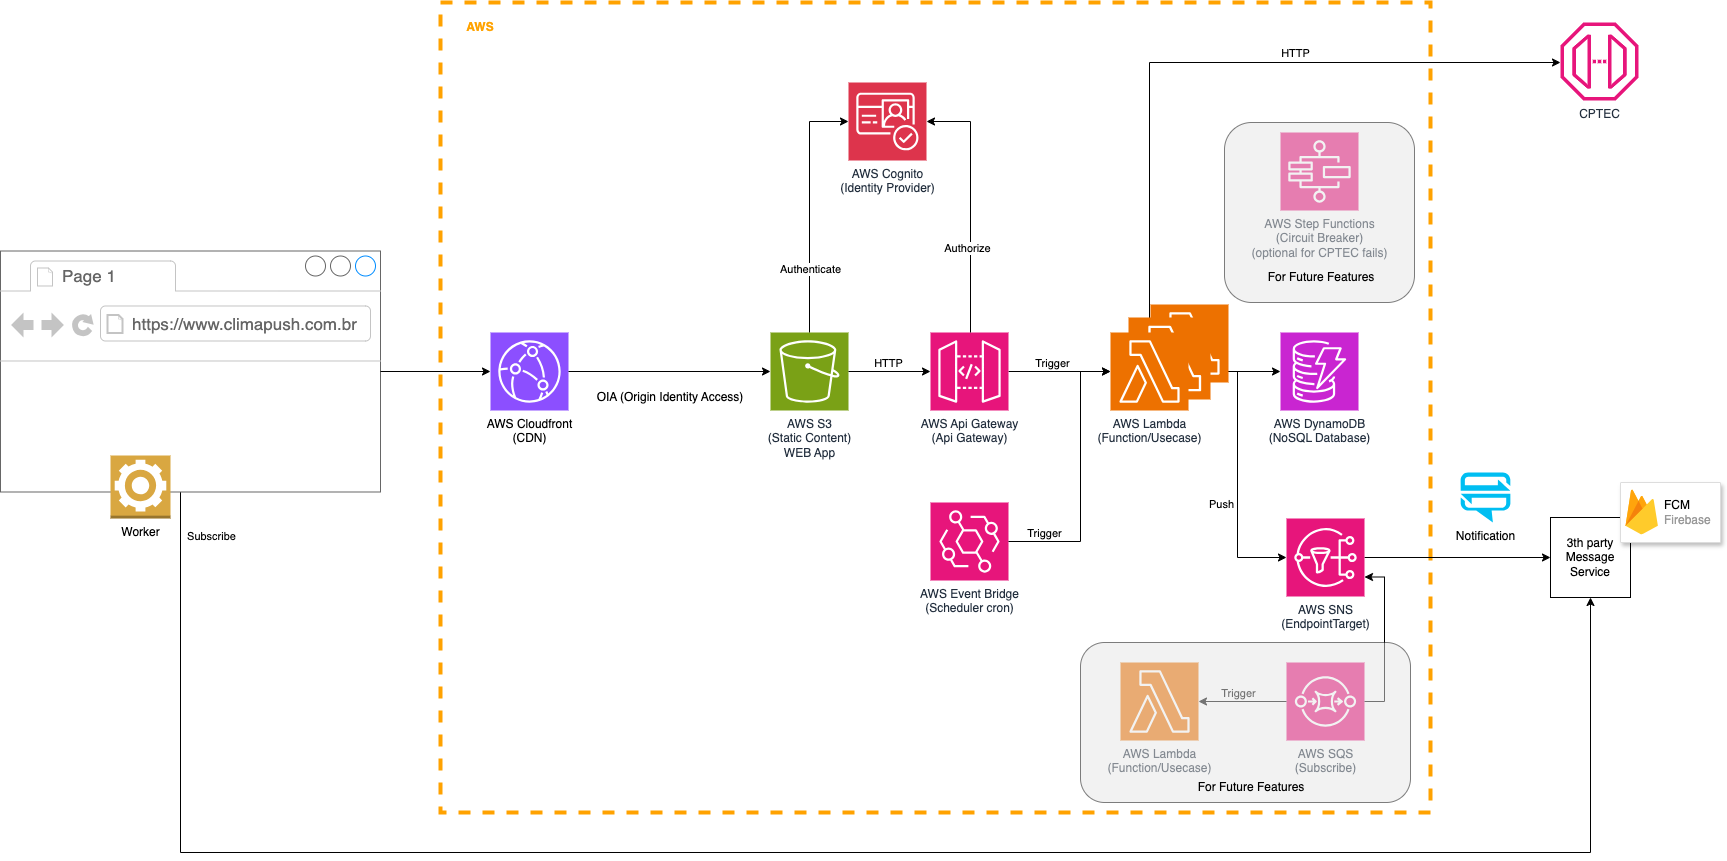
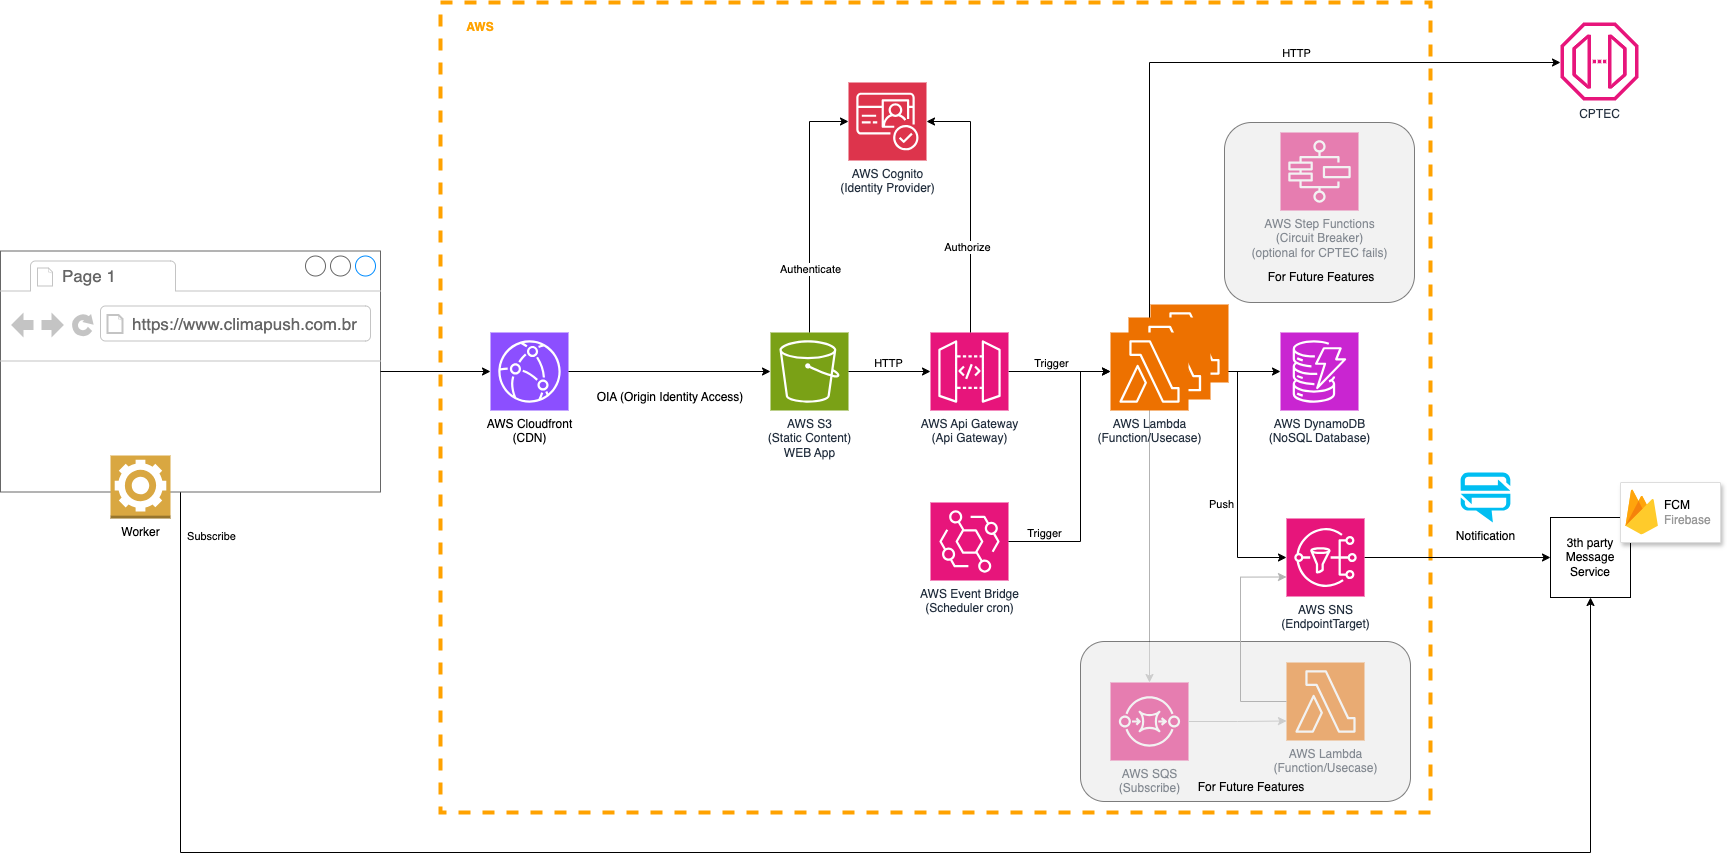
arch: how to scale push notifications

Changed region(s): [[0.6445, 0.7549, 0.7979, 0.9361], [0.5524, 0.2718, 0.5831, 0.302]]

diff --git a/README.md b/README.md
@@ -4,6 +4,7 @@
     - [Web App](#web-app)
     - [API](#api)
     - [Notificações](#notificações)
+    - [Notificações - Como escalar](#notificações---como-escalar)
     - [Devops](#devops)
 
 # Test
@@ -82,6 +83,10 @@ Integrar AWS SNS Mobile Push com Firebase Cloud Messaging para enviar notificaç
 Esses fatores fazem da integração entre AWS SNS e FCM uma escolha robusta e eficiente para enviar notificações push para web apps garantindo desempenho.
 
 ![AWS](Arch.Push.png)
+
+### Notificações - Como escalar
+
+![AWS](Arch.Push.HowToScale.png)
 
 ### Devops
 
